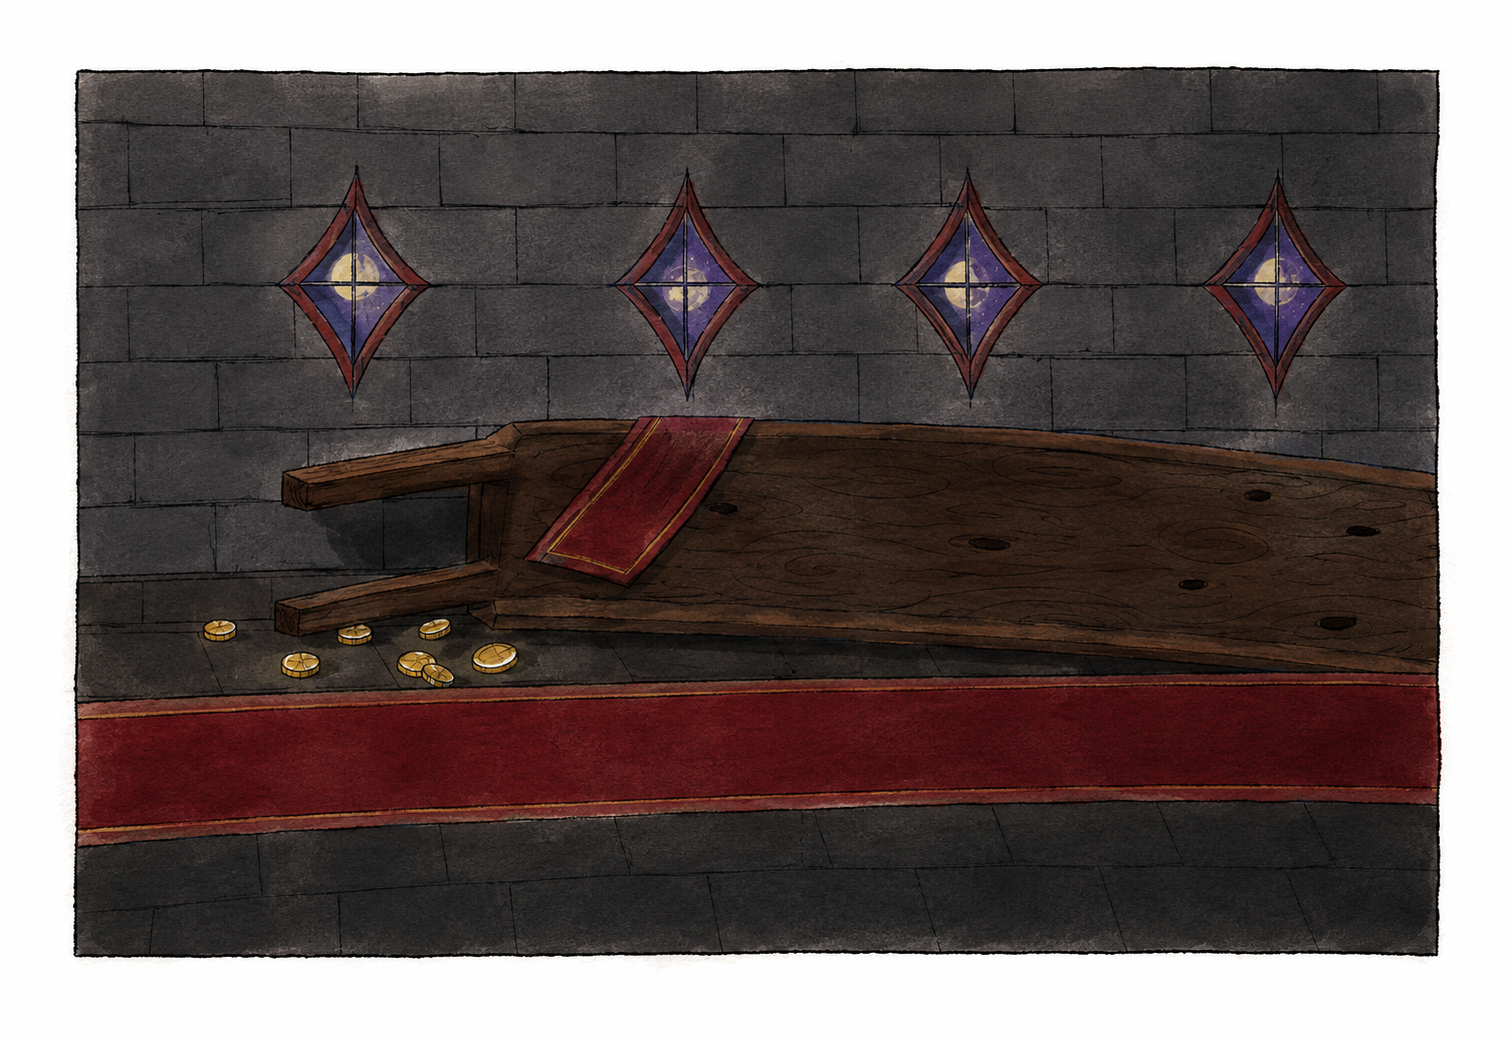
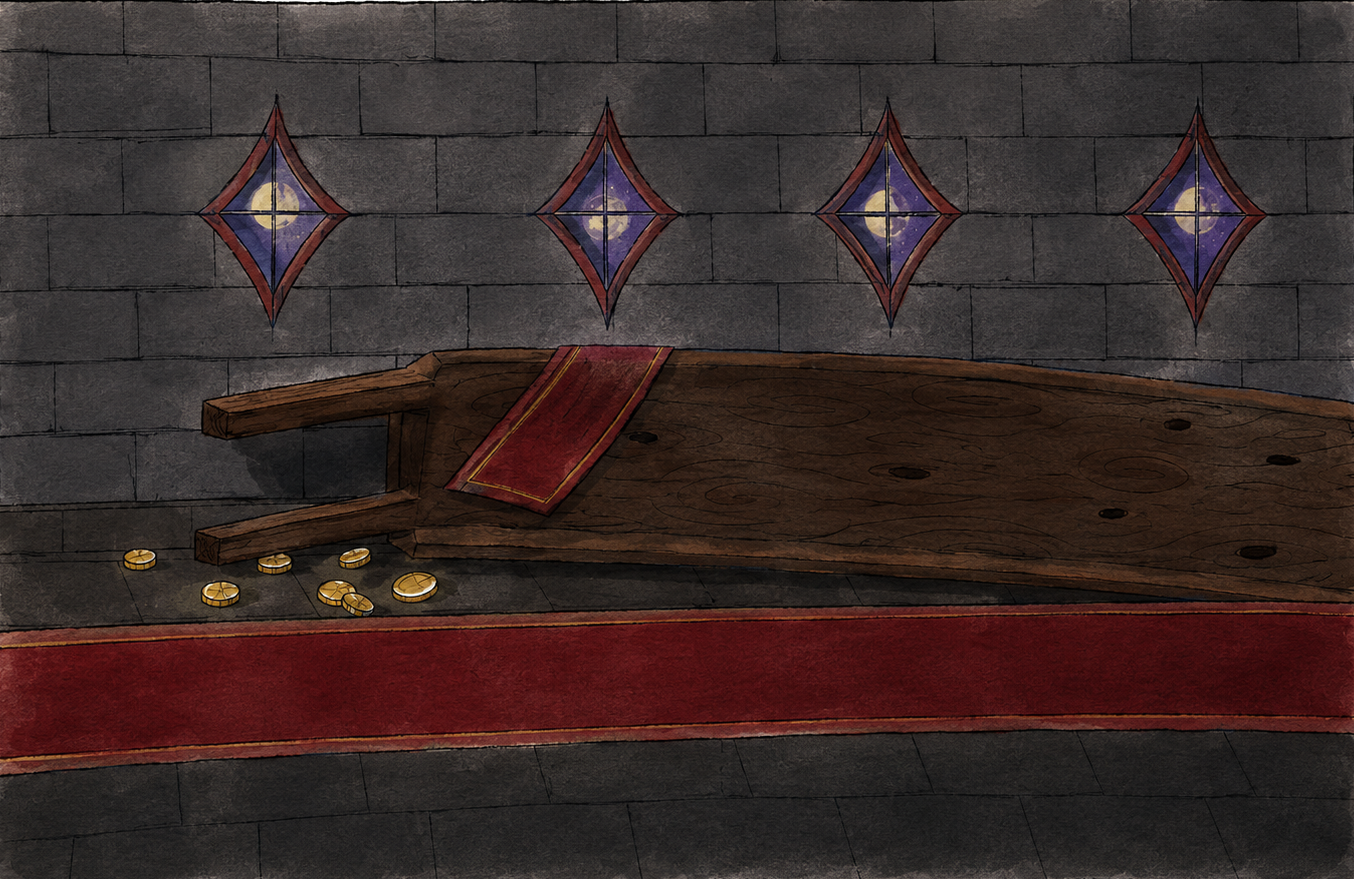
added replayablity to the rooms except for boss rooms

diff --git a/Videojuego/Game/mapScreen.js b/Videojuego/Game/mapScreen.js
@@ -128,6 +128,10 @@ export default class mapScreen extends Menus {
         this.onRoomSelected = onRoomSelected;
         this.state          = undefined;
         this.hoveredCell    = null;
+        // Transient banner shown when the player clicks an already-beaten boss room
+        // (boss rooms are one-time only). Counts down in update().
+        this.bossMessage      = null;
+        this.bossMessageTimer = 0;
 
         // Only keep cells whose DB room actually exists; convert to pixel rects once.
         this.cells = ROOM_LAYOUT
@@ -161,9 +165,11 @@ export default class mapScreen extends Menus {
 
     _roomState(cell) {
         const room = this.mapManager.getRoom(cell.floorNumber, cell.roomNumber);
-        if (!room)          return 'locked';
-        if (room.completed) return 'completed';
-        if (room.unlocked)  return 'unlocked';
+        if (!room)                          return 'locked';
+        // Boss rooms are one-time: once beaten they're not enterable (but render plain).
+        if (room.isBoss && room.completed)  return 'bossCleared';
+        // A completed non-boss room keeps its unlocked flag, so it stays replayable.
+        if (room.unlocked)                  return 'unlocked';
         return 'locked';
     }
 
@@ -177,14 +183,27 @@ export default class mapScreen extends Menus {
     _onClick(e) {
         const { mx, my } = this._coords(e);
         const cell = this._hit(mx, my);
-        if (!cell || this._roomState(cell) !== 'unlocked') return;
+        if (!cell) return;
+        const rs = this._roomState(cell);
+        if (rs === 'bossCleared') {
+            // Tell the player why nothing happened instead of silently ignoring the click.
+            this.bossMessage = 'Boss rooms can only be played once';
+            this.bossMessageTimer = 2000;
+            return;
+        }
+        if (rs !== 'unlocked') return;
         const room = this.mapManager.getRoom(cell.floorNumber, cell.roomNumber);
         this.onRoomSelected?.(room);
         this.dispose();
         this.state = LOBBY_STATE;
     }
 
-    update(_dt) {}
+    update(dt) {
+        if (this.bossMessageTimer > 0) {
+            this.bossMessageTimer -= dt;
+            if (this.bossMessageTimer <= 0) this.bossMessage = null;
+        }
+    }
 
     draw(ctx) {
         this.background.draw(ctx);
@@ -202,15 +221,6 @@ export default class mapScreen extends Menus {
                 ctx.fillStyle    = 'rgba(255,255,255,0.25)';
                 ctx.fillText('🔒', cell.x + cell.w / 2, cell.y + cell.h / 2);
 
-            } else if (rs === 'completed') {
-                ctx.fillStyle    = 'rgba(30,90,40,0.45)';
-                ctx.fillRect(cell.x, cell.y, cell.w, cell.h);
-                ctx.font         = 'bold 32px serif';
-                ctx.textAlign    = 'center';
-                ctx.textBaseline = 'middle';
-                ctx.fillStyle    = 'rgba(100,220,120,0.85)';
-                ctx.fillText('✓', cell.x + cell.w / 2, cell.y + cell.h / 2);
-
             } else if (cell === this.hoveredCell) {
                 ctx.fillStyle   = 'rgba(200,160,60,0.22)';
                 ctx.fillRect(cell.x, cell.y, cell.w, cell.h);
@@ -218,7 +228,28 @@ export default class mapScreen extends Menus {
                 ctx.lineWidth   = 3;
                 ctx.strokeRect(cell.x, cell.y, cell.w, cell.h);
             }
+            // 'bossCleared' and non-hovered 'unlocked' rooms render plain (no overlay).
 
+            ctx.restore();
+        }
+
+        // Transient "boss already beaten" banner, centered near the top.
+        if (this.bossMessage) {
+            ctx.save();
+            ctx.font         = 'bold 26px Academia, serif';
+            ctx.textAlign    = 'center';
+            ctx.textBaseline = 'middle';
+            const cx = this.canvasWidth / 2;
+            const cy = this.canvasHeight * 0.12;
+            const padX = 24, padY = 12;
+            const textW = ctx.measureText(this.bossMessage).width;
+            ctx.fillStyle = 'rgba(26,20,16,0.85)';   // dark parchment backdrop
+            ctx.fillRect(cx - textW / 2 - padX, cy - 13 - padY, textW + padX * 2, 26 + padY * 2);
+            ctx.strokeStyle = 'rgba(201,162,90,0.9)'; // antique gold border
+            ctx.lineWidth = 2;
+            ctx.strokeRect(cx - textW / 2 - padX, cy - 13 - padY, textW + padX * 2, 26 + padY * 2);
+            ctx.fillStyle = '#f3ead0';                // parchment text
+            ctx.fillText(this.bossMessage, cx, cy);
             ctx.restore();
         }
     }

diff --git a/Videojuego/Game/Return.js b/Videojuego/Game/Return.js
@@ -159,13 +159,21 @@ class Game {
     async persistProgress(){
         if(!this.api || this.runId == null || !this.currentRoom){ return; }
         const victory = (this.currentRoom.floorNumber === 3 && this.currentRoom.isBoss) ? true : undefined;
+        // Non-boss rooms are replayable, so the room just cleared can be EARLIER than the
+        // furthest reached. Never regress the saved progress (it drives the map rebuild on
+        // Continue) — persist the furthest of the previous progress and the current room.
+        const cur = { floor: this.currentRoom.floorNumber, room: this.currentRoom.roomNumber };
+        const prev = this.runProgress;
+        const isFurther = !prev || cur.floor > prev.floor ||
+            (cur.floor === prev.floor && cur.room > prev.room);
+        const furthest = isFurther ? cur : prev;
         try {
             await this.api.updateRunProgress(this.runId, {
-                finalFloor: this.currentRoom.floorNumber,
-                finalRoom: this.currentRoom.roomNumber,
+                finalFloor: furthest.floor,
+                finalRoom: furthest.room,
                 victory
             });
-            this.runProgress = { floor: this.currentRoom.floorNumber, room: this.currentRoom.roomNumber };
+            this.runProgress = furthest;
         } catch(err){
             console.error('Could not persist run progress:', err);
         }
